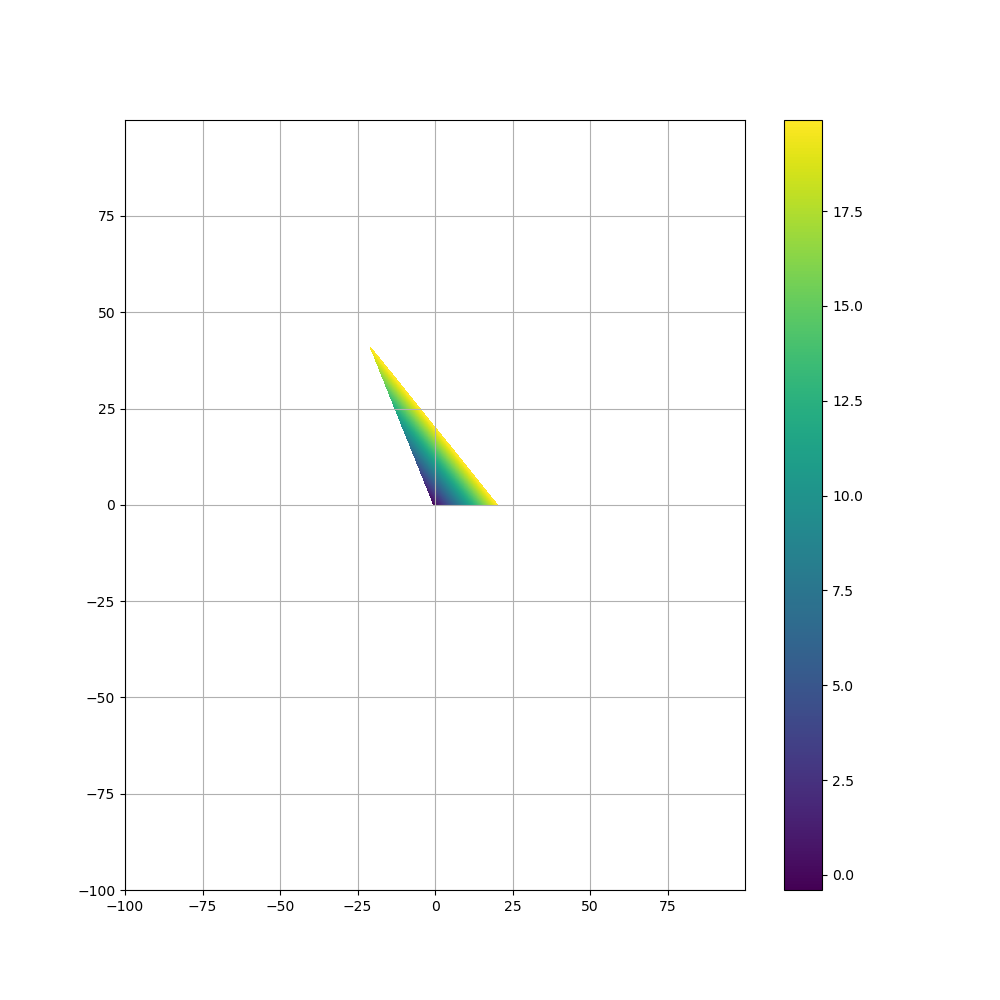
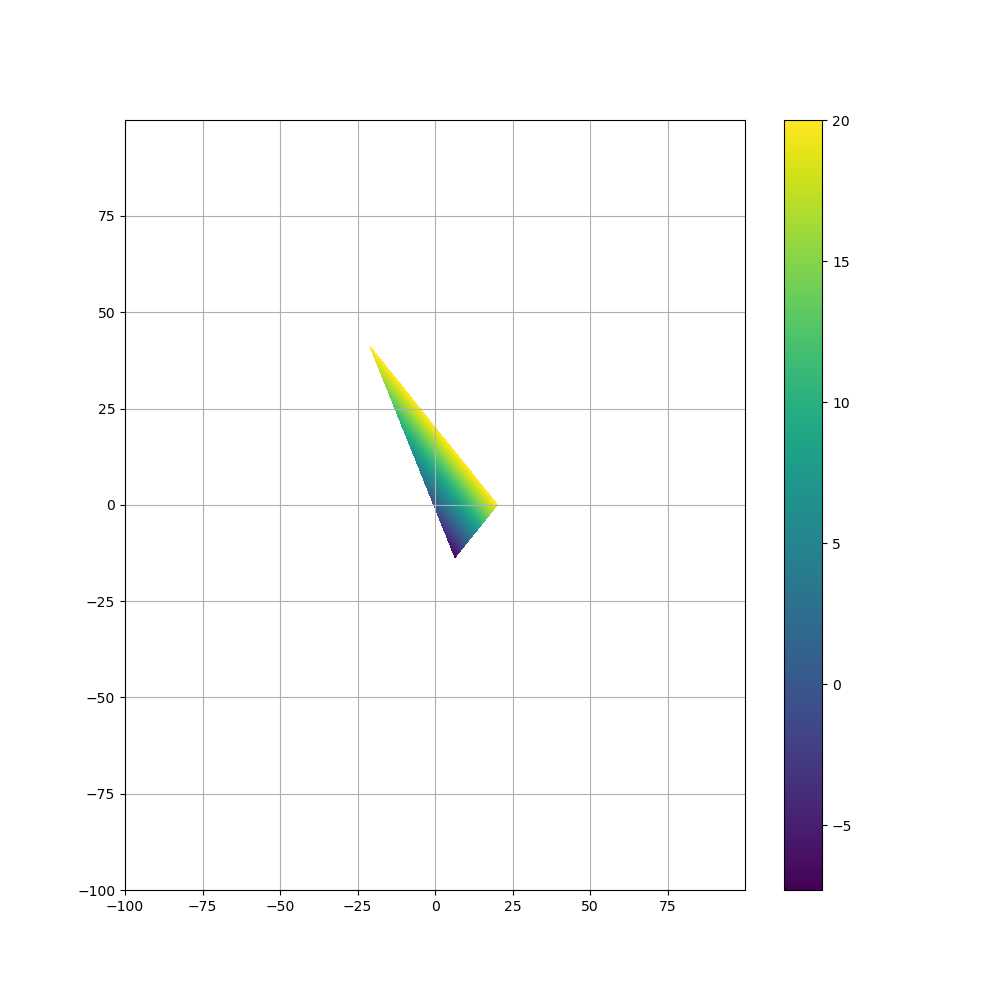
refactor linear_programming.py - delete LinearSystem class - little change of LPProblem ctor - refactor of transformation to canonical form (canonical())

Changed region(s): [[0.372, 0.372, 0.496, 0.558], [0.837, 0.279, 0.868, 0.31], [0.837, 0.186, 0.868, 0.217]]

diff --git a/lab1_linear_programming/linear_programming.py b/lab1_linear_programming/linear_programming.py
@@ -3,107 +3,71 @@ import numpy as np
 import copy
 
 
-class LinearSystem:
-    class Relationship(str, Enum):
-        equality = '='
-        inequality_greater = '>='
-        inequality_less = '<='
-
-    def __init__(self, A=None, b=None, relationship=Relationship.equality,
-                 transform_inequality_less=True):
-        if A is None:
-            A = []
-        if b is None:
-            b = []
-
-        self.A = np.array(A)
-        self.b = np.array(b)
-        self.relationship = relationship
-        if self.relationship == self.Relationship.inequality_less and transform_inequality_less:
-            self.A *= -1
-            self.b *= -1
-            self.relationship = self.Relationship.inequality_greater
-
-        if self.A.shape[0] != self.b.shape[0]:
-            raise ValueError('shapes of A and b dont match')
-
-    def col_num(self):
-        return self.A.shape[1]
-
-    def row_num(self):
-        return self.A.shape[0]
-
-    def select_A_columns(self, col_list):
-        return self.A[:, col_list].copy()
-
-    def select_A_rows(self, row_list):
-        return self.A[row_list, :].copy()
-
-    def is_solution(self, x, eps):
-        Ax = self.A @ x
-        distance_Ax_b = np.linalg.norm(self.A @ x - self.b)
-
-        if self.relationship == self.Relationship.equality:
-            return distance_Ax_b <= eps
-
-        elif self.relationship == self.Relationship.inequality_greater:
-            return distance_Ax_b <= eps or (Ax > self.b).all()
-
-        elif self.relationship == self.Relationship.inequality_less:
-            return distance_Ax_b <= eps or (Ax < self.b).all()
-
-    def foreach_A(self, func, inplace=True):
-        vec_func = np.vectorize(func)
-        res = vec_func(self.A.copy())
-
-        if inplace:
-            self.A = res
-
-        return LinearSystem(res, self.b.copy())
-
-    def foreach_b(self, func, inplace=True):
-        vec_func = np.vectorize(func)
-        res = vec_func(self.b.copy())
-
-        if inplace:
-            self.b = res
-
-        return LinearSystem(self.A.copy(), res)
-
-
 class LPProblem:
-    def __init__(self, A, b, c_objective, M1_b_ineq=None, M2_b_eq=None,
-                 N1_x_positive=None, N2_x_any_sign=None):
+    def __init__(self, x_dim, A, b, c_objective,
+                 M1_b_ineq=None, N1_x_positive=None):
 
+        if M1_b_ineq is None:
+            M1_b_ineq = []
+        if N1_x_positive is None:
+            N1_x_positive = []
+
+        self.x_dim = x_dim
         self.A = np.array(A)
         self.b = np.array(b)
         self.c_objective = np.array(c_objective)
-        self.M1_b_ineq = np.array(M1_b_ineq)
-        self.M2_b_eq = np.array(M2_b_eq)
-        self.N1_x_positive = np.array(N1_x_positive)
-        self.N2_x_any_sign = np.array(N2_x_any_sign)
 
+        self.M1_b_ineq = list(M1_b_ineq)
+        self.M2_b_eq = list(set(range(self.b.shape[0])) - set(M1_b_ineq))
+        self.N1_x_positive = list(N1_x_positive)
+        self.N2_x_any_sign = list(set(range(x_dim)) - set(N1_x_positive))
 
-    def from_common_to_dual(self, implace=False):
+    def from_common_to_dual(self, inplace=False):
         dual = copy.deepcopy(self)
 
-        dual.b, dual.c_objective = np.transpose(dual.c_objective), np.transpose(dual.b)
+        dual.b, dual.c_objective = dual.c_objective, dual.b
         dual.A = np.transpose(dual.A)
         dual.M1_b_ineq, dual.M2_b_eq, dual.N1_x_positive, dual.N2_x_any_sign = dual.N1_x_positive, dual.N2_x_any_sign, dual.M1_b_ineq, dual.M2_b_eq
 
-        if implace:
+        if inplace:
             self.__dict__.update(dual.__dict__)
 
         return dual
 
+    def __A_b_equality_part(self):
+        if len(self.M2_b_eq) == 0:
+            return None, None
+
+        return self.A[self.M2_b_eq, :], self.b[self.M2_b_eq]
+
+    def __A_b_inequality_part(self):
+        if len(self.M1_b_ineq) == 0:
+            return None, None
+
+        return self.A[self.M1_b_ineq, :], self.b[self.M1_b_ineq]
 
     def optimization_area_indicator(self):
         # maybe inner function is redundant (refactor?)
+        A_eq, b_eq = self.__A_b_equality_part()
+        A_ineq, b_ineq = self.__A_b_inequality_part()
+
         def area_indicator(x, eps):
             x = np.array(x)
-            return (len(self.x_positive_indexes) == 0 or (x[self.x_positive_indexes] >= 0).all()) and \
-                   (self.LS_eq is None or self.LS_eq.is_solution(x, eps)) and \
-                   (self.LS_ineq is None or self.LS_ineq.is_solution(x, eps))
+
+            is_solution_to_eq = True
+            if A_eq is not None:
+                eq_Ax = A_eq @ x
+                distance_eq_Ax_b = np.linalg.norm(eq_Ax - b_eq)
+                is_solution_to_eq = distance_eq_Ax_b <= eps
+
+            is_solution_to_ineq = True
+            if A_ineq is not None:
+                ineq_Ax = A_ineq @ x
+                distance_ineq_Ax_b = np.linalg.norm(ineq_Ax - b_ineq)
+                is_solution_to_ineq = (distance_ineq_Ax_b <= eps or (ineq_Ax >= b_ineq).all())
+
+            return (len(self.N1_x_positive) == 0 or (x[self.N1_x_positive] >= 0).all()) and \
+                   is_solution_to_eq and is_solution_to_ineq
 
         return area_indicator
 
@@ -114,55 +78,50 @@ class LPProblem:
 
         return obj_func
 
-    def is_common(self):
-        return self.LS_ineq is not None and self.LS_eq is not None
-
     def is_canonical(self):
-        return self.LS_ineq is None and self.x_size == len(self.x_positive_indexes)
-
-    def is_symmetric(self):
-        return self.LS_eq is None and self.x_size == len(self.x_positive_indexes)
+        return len(self.M1_b_ineq) == 0 and self.x_dim == len(self.N1_x_positive)
 
     def canonical(self, inplace=False):
-        if self.is_canonical():
-            return copy.deepcopy(self)
+        canon = copy.deepcopy(self)
 
-        x_any_sign_indexes = list(set(range(self.x_size)) - set(self.x_positive_indexes))
+        if canon.is_canonical():
+            return canon
 
-        A_m1_n1 = self.LS_ineq.select_A_columns(self.x_positive_indexes)
-        A_m1_n2 = self.LS_ineq.select_A_columns(x_any_sign_indexes)
+        A_m1_n1 = canon.A[self.M1_b_ineq][:, self.N1_x_positive]
+        A_m1_n2 = canon.A[self.M1_b_ineq][:, self.N2_x_any_sign]
         neg_A_m1_n2 = A_m1_n2.copy() * -1
-        neg_E_m1_m1 = np.eye(self.LS_ineq.row_num()) * -1
+        neg_E_m1_m1 = np.eye(len(self.M1_b_ineq)) * -1
 
-        A_m2_n1 = self.LS_eq.select_A_columns(self.x_positive_indexes)
-        A_m2_n2 = self.LS_eq.select_A_columns(x_any_sign_indexes)
+        A_m2_n1 = canon.A[self.M2_b_eq][:, self.N1_x_positive]
+        A_m2_n2 = canon.A[self.M2_b_eq][:, self.N2_x_any_sign]
         neg_A_m2_n2 = A_m2_n2.copy() * -1
-        O_m2_m1 = np.zeros([self.LS_eq.row_num(), self.LS_ineq.row_num()])
+        O_m2_m1 = np.zeros([len(self.M2_b_eq), len(self.M1_b_ineq)])
 
         A_upper = np.concatenate((A_m1_n1, A_m1_n2, neg_A_m1_n2, neg_E_m1_m1), axis=1)
         A_lower = np.concatenate((A_m2_n1, A_m2_n2, neg_A_m2_n2, O_m2_m1), axis=1)
 
         A = np.concatenate((A_upper, A_lower), axis=0)
 
-        b = np.concatenate((self.LS_ineq.b.copy(), self.LS_eq.b.copy()), axis=0)
+        b = canon.b
 
-        c_n1 = self.c_objective[self.x_positive_indexes].copy()
-        c_n2 = self.c_objective[x_any_sign_indexes].copy()
+        c_n1 = canon.c_objective[self.N1_x_positive]
+        c_n2 = canon.c_objective[self.N2_x_any_sign]
         neg_c_n2 = c_n2.copy() * -1
-        o_m1 = np.zeros(self.LS_ineq.row_num())
+        o_m1 = np.zeros(len(self.M1_b_ineq))
 
         c = np.concatenate((c_n1, c_n2, neg_c_n2, o_m1), axis=0)
 
-        x_new_size = A.shape[1]
-        res = LPProblem(x_size=x_new_size,
-                        LS_eq=LinearSystem(A, b, relationship='='),
-                        LS_ineq=None,
-                        x_positive_indexes=list(range(x_new_size)),
-                        c_objective=c)
+        x_new_dim = A.shape[1]
+        res = LPProblem(
+            x_dim=x_new_dim,
+            A=A,
+            b=b,
+            c_objective=c,
+            M1_b_ineq=None,
+            N1_x_positive=list(range(x_new_dim))
+        )
 
         if inplace:
             self.__dict__.update(res.__dict__)
 
         return res
-
-

diff --git a/lab1_linear_programming/main.py b/lab1_linear_programming/main.py
@@ -3,54 +3,69 @@ import copy
 from lab1_linear_programming.plot_function import visualize_func_in_2d_area
 from lab1_linear_programming.linear_programming import *
 
-
-if __name__ == '__main__':
+def viktor_main():
     lp_problem = LPProblem([[5, 2, 3, 6, -2],
-                                [10, 5, 6, 43, 10],
-                                [6, -7, -2, 1, 4],
-                                [1, 3, 4, 6, 8],
-                                [4, 7, 3, 2, 1]],
+                            [10, 5, 6, 43, 10],
+                            [6, -7, -2, 1, 4],
+                            [1, 3, 4, 6, 8],
+                            [4, 7, 3, 2, 1]],
                            [5, 10, 1, 1, 0],
                            [2, 3, 4, 1, 1],
-                           [3 ,4], [0, 1, 2], [1 ,3], [0, 2, 4]
+                           [3, 4], [0, 1, 2], [1, 3], [0, 2, 4]
                            )
     lp_problem.from_common_to_dual(implace=True)
     lp_problem.from_common_to_dual(implace=True)
 
     lp_problem_canonical = LPProblem([[5, 2, 3, 6, -2],
-                            [10, 5, 6, 43, 10],
-                            [6, -7, -2, 1, 4],
-                            [4, 7, 3, 2, 1]],
-                           [5, 10, 1, 1],
-                           [2, 3, 4, 1, 1],
-                           M2_b_eq=[0, 1, 2, 3],
-                           N1_x_positive=[0, 1, 2, 3, 4]
-                           )
+                                      [10, 5, 6, 43, 10],
+                                      [6, -7, -2, 1, 4],
+                                      [4, 7, 3, 2, 1]],
+                                     [5, 10, 1, 1],
+                                     [2, 3, 4, 1, 1],
+                                     M2_b_eq=[0, 1, 2, 3],
+                                     N1_x_positive=[0, 1, 2, 3, 4]
+                                     )
     t = lp_problem_canonical.from_common_to_dual()
     y = t.from_common_to_dual()
 
     visualize_func_in_2d_area(lp_problem.objective_func(),
-                            lp_problem.optimization_area_indicator())
+                              lp_problem.optimization_area_indicator())
     t = lp_problem.dualLPProblem()
     y = t.dualLPProblem()
     visualize_func_in_2d_area(y.objective_func(),
                               y.optimization_area_indicator())
     lp_problem.canonical(inplace=True)
 
-    # lp_problem_2d = LPProblem(x_size=2,
-    #                           LS_eq=None,
-    #                           LS_ineq=LinearSystem(
-    #                               [[-1, -1],
-    #                                [-1, 1],
-    #                           ),
-    #                                [2, 1]],
-    #                               [-20, -20, -1],
-    #                               relationship='>='
-    #                           x_positive_indexes=[0, 1],
-    #                           c_objective=[1, 1]
-    #                           )
-    # t = lp_problem_2d.dualLPProblem()
-    # y = t.dualLPProblem()
-    # visualize_func_in_2d_area(lp_problem_2d.objective_func(),
-    #                           lp_problem_2d.optimization_area_indicator())
+
+def mikhail_main():
+    lp_problem_2d = LPProblem(
+        x_dim=2,
+        A=[[-1, -1],
+           [-1, 1],
+           [2, 1]],
+        b=[-20, -20, -1],
+        c_objective=[1, 1],
+        M1_b_ineq=[0, 1, 2],
+        N1_x_positive=None
+    )
+
+    canon = lp_problem_2d.canonical()
+    return
+
+    visualize_func_in_2d_area(lp_problem_2d.objective_func(),
+                              lp_problem_2d.optimization_area_indicator(),
+                              title='x_plus_y_common')
+
+    dual_problem = lp_problem_2d.from_common_to_dual()
+    dual_dual_problem = dual_problem.from_common_to_dual()
+    visualize_func_in_2d_area(dual_dual_problem.objective_func(),
+                              dual_dual_problem.optimization_area_indicator(),
+                              title='x_plus_y_dual_dual')
+
+
+if __name__ == '__main__':
+
+    #viktor_test()
+    mikhail_main()
+
     print('first lab')

diff --git a/lab1_linear_programming/plot_function.py b/lab1_linear_programming/plot_function.py
@@ -1,8 +1,10 @@
 import numpy as np
 import matplotlib.pyplot as plt
 
+PATH_TO_PLOTS = 'plots/'
 
-def visualize_func_in_2d_area(func, area_func_indicator=lambda x, eps: True,
+
+def visualize_func_in_2d_area(func, area_func_indicator=lambda x, eps: True, title ='',
                               range_x=(-100, 100), range_y=(-100, 100), step=0.1, eps=0.0001):
 
     def func_on_area_2d(x, y):
@@ -23,5 +25,6 @@ def visualize_func_in_2d_area(func, area_func_indicator=lambda x, eps: True,
 
     plt.grid()
     fig.colorbar(c)
-    plt.savefig('plots/x_plus_y.png')
+    ax.set_title(title)
+    plt.savefig(f'{PATH_TO_PLOTS}{title}')
     plt.show()
